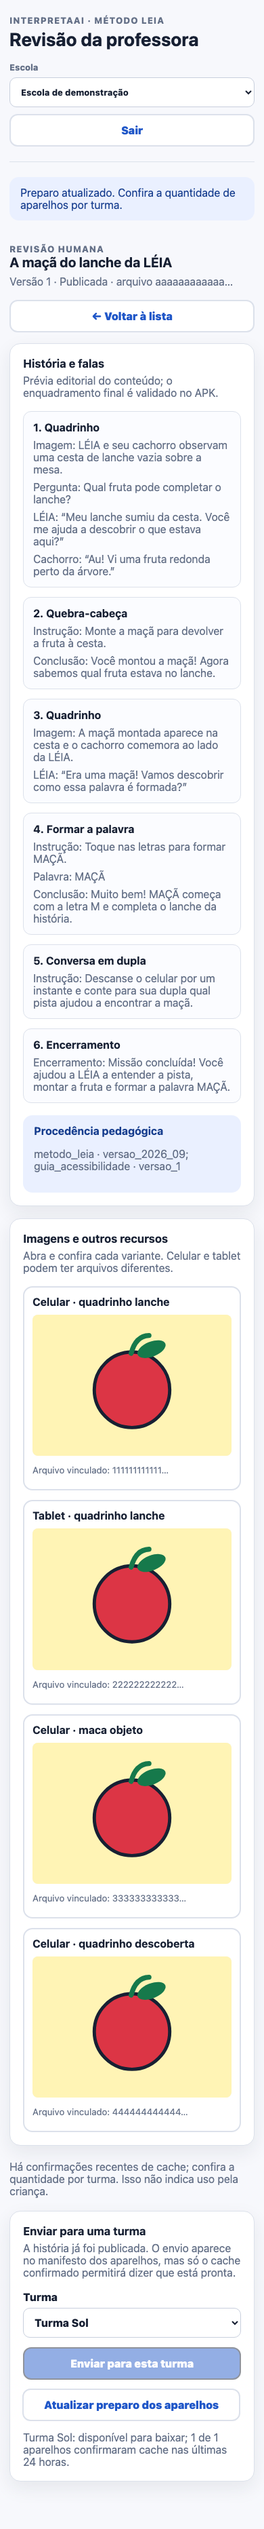
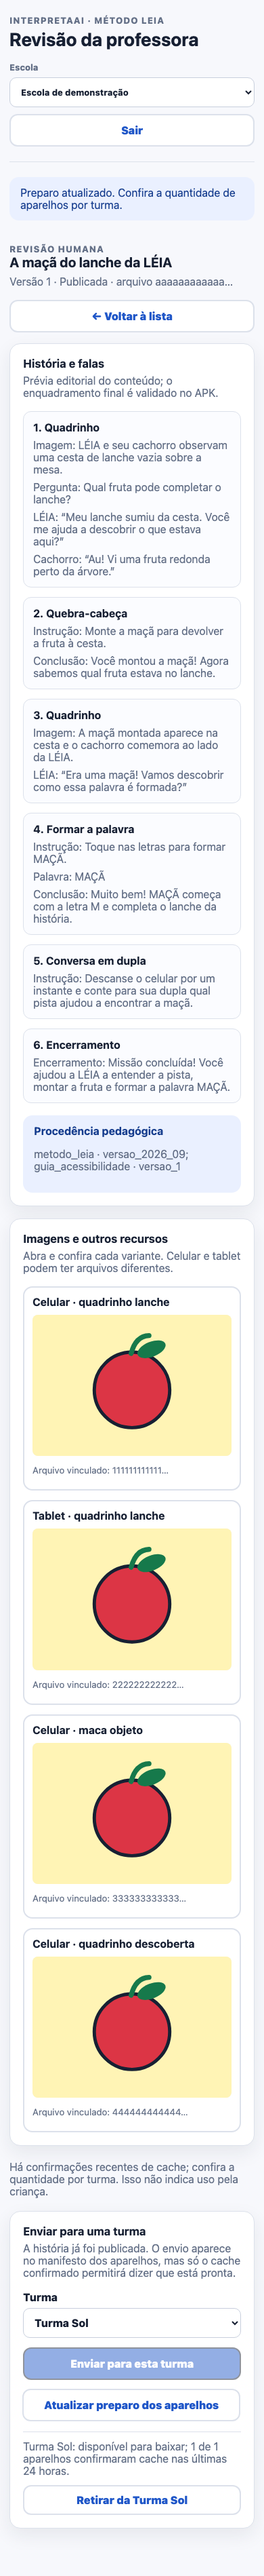
Expose withdrawal in teacher Studio with visual evidence and limits

Changed region(s): [[0.0308, 0.0, 0.9231, 0.9957], [0.5538, 0.0, 0.6462, 0.0311], [0.9231, 0.0311, 0.9538, 0.0622]]

diff --git a/server/src/main/resources/static/studio/review.js b/server/src/main/resources/static/studio/review.js
@@ -28,6 +28,7 @@ async function api(path, options = {}) {
     try { message = (await response.json()).safeMessage || message; } catch (_) { /* no body */ }
     throw new Error(message);
   }
+  if (response.status === 204) return null;
   return response.json();
 }
 
@@ -137,7 +138,24 @@ function renderAssignments() {
         : summary.pairedCompatibleDevices === 0 ? "nenhum aparelho compatível pareado."
         : `${summary.recentlyConfirmedDevices} de ${summary.pairedCompatibleDevices} aparelhos ` +
           `confirmaram cache nas últimas ${summary.freshnessHours} horas.`;
-      list.append(element("p", `${name}: disponível para baixar; ${detail}`));
+      const row = element("div", null, "assignment-row");
+      row.append(element("p", `${name}: disponível para baixar; ${detail}`));
+      const withdraw = element("button", `Retirar da ${name}`, "button quiet withdraw-assignment");
+      withdraw.type = "button";
+      withdraw.addEventListener("click", async () => {
+        if (!window.confirm(`Retirar esta história da ${name}? Após a reconexão, os aparelhos não poderão reabri-la.`)) return;
+        withdraw.disabled = true;
+        try {
+          await post(`/studio/api/schools/${studio.schoolId}/assignments/${assignment.assignmentId}/revoke`);
+          await loadAssignments();
+          feedback(`História retirada da ${name}. Aparelhos offline serão atualizados na próxima conexão.`);
+        } catch (error) {
+          withdraw.disabled = false;
+          feedback(error.message, true);
+        }
+      });
+      row.append(withdraw);
+      list.append(row);
     }
   }
   byId("refresh-preparation").hidden = studio.assignments.length === 0;
@@ -147,6 +165,8 @@ function renderAssignments() {
     byId("review-instruction").textContent = confirmed
       ? "Há confirmações recentes de cache; confira a quantidade por turma. Isso não indica uso pela criança."
       : "Disponível para a turma. Confira abaixo se os aparelhos já confirmaram o preparo.";
+  } else if (studio.review?.state === "PUBLISHED") {
+    byId("review-instruction").textContent = "Publicada. Escolha uma turma; nenhum envio ativo está disponível agora.";
   }
   byId("assign").disabled = !selector.value || studio.assignments.some(
     item => item.target.id === selector.value);

diff --git a/server/src/main/resources/static/studio/review.css b/server/src/main/resources/static/studio/review.css
@@ -31,6 +31,9 @@
 .assignment-controls select { width: 100%; }
 .assignment-list { display: grid; gap: 8px; margin-top: 14px; }
 .assignment-list p { margin: 0; }
+.assignment-row { display: flex; align-items: center; justify-content: space-between; gap: 12px; flex-wrap: wrap; border-top: 1px solid var(--line); padding-top: 12px; }
+.assignment-row p { flex: 1 1 280px; }
+.withdraw-assignment { min-height: 44px; }
 .refresh-preparation { margin-top: 14px; }
 .button:disabled { cursor: not-allowed; opacity: .48; box-shadow: none; transform: none; }
 @media (max-width: 700px) {

diff --git a/tools/audit-studio-review.py b/tools/audit-studio-review.py
@@ -70,6 +70,10 @@ def main():
         elif path.endswith("/preparation"):
             body = {"assignmentId": "assignment_fixture_001", "pairedCompatibleDevices": 1,
                     "recentlyConfirmedDevices": state["confirmed"], "freshnessHours": 24}
+        elif path.endswith("/revoke") and route.request.method == "POST":
+            state["assignments"] = []
+            route.fulfill(status=204, body="")
+            return
         elif path.endswith("/assignments"):
             if route.request.method == "POST":
                 state["assignments"] = [{"assignmentId": "assignment_fixture_001",
@@ -138,6 +142,12 @@ def main():
                 )).to_be_visible()
                 expect(page.get_by_text("Preparo atualizado. Confira a quantidade de aparelhos por turma.")).to_be_visible()
                 page.screenshot(path=OUTPUT / f"{label}-confirmed.png", full_page=True)
+                page.get_by_role("button", name="Retirar da Turma Sol").click()
+                expect(page.get_by_text("Ainda não disponibilizada a nenhuma turma acessível.")).to_be_visible()
+                expect(page.get_by_text(
+                    "História retirada da Turma Sol. Aparelhos offline serão atualizados na próxima conexão."
+                )).to_be_visible()
+                page.screenshot(path=OUTPUT / f"{label}-withdrawn.png", full_page=True)
                 assert not errors, (label, errors)
                 page.close()
             browser.close()

diff --git a/docs/v2/STUDIO_REVIEW.md b/docs/v2/STUDIO_REVIEW.md
@@ -4,7 +4,7 @@ Estado em 17/09/2026: interface e BFF implementados e testados **localmente**. A
 
 ## Jornada implementada
 
-A professora entra via OIDC institucional, escolhe uma escola do seu vínculo ativo, abre um rascunho e confere cenas, diálogos, palavra-alvo, procedência e cada variante privada de imagem/áudio. Só consegue aprovar depois de confirmar todos os arquivos carregados. A aprovação envia revisão, hash do rascunho e hashes das mídias ao servidor; o backend repete autorização e validações. Publicar é uma segunda ação explícita. Depois, a professora escolhe uma turma vinculada e disponibiliza a versão publicada. **Publicar não atribui à turma; atribuir não comprova que os tablets prepararam o cache.** Após a atribuição, o painel consulta separadamente aparelhos compatíveis pareados e recibos de cache verificado nas últimas 24 horas, com atualização manual. Quando não há histórias, a interface mostra estado vazio verdadeiro, não conteúdo de demonstração.
+A professora entra via OIDC institucional, escolhe uma escola do seu vínculo ativo, abre um rascunho e confere cenas, diálogos, palavra-alvo, procedência e cada variante privada de imagem/áudio. Só consegue aprovar depois de confirmar todos os arquivos carregados. A aprovação envia revisão, hash do rascunho e hashes das mídias ao servidor; o backend repete autorização e validações. Publicar é uma segunda ação explícita. Depois, a professora escolhe uma turma vinculada e disponibiliza a versão publicada. **Publicar não atribui à turma; atribuir não comprova que os tablets prepararam o cache.** Após a atribuição, o painel consulta separadamente aparelhos compatíveis pareados e recibos de cache verificado nas últimas 24 horas, com atualização manual. A professora também pode retirar o envio com confirmação explícita; isso não apaga a publicação. Quando não há histórias, a interface mostra estado vazio verdadeiro, não conteúdo de demonstração.
 
 ## Fronteira de segurança
 
@@ -14,10 +14,10 @@ Para ativar em staging, configurar um cliente OIDC Spring `studio` com issuer, c
 
 ## Evidência e limites
 
-- `./gradlew :server:test` cobre segurança habilitada/desabilitada, isolamento por escola/autoria, CSRF, aprovação/publicação, atribuição idempotente e recibo de preparo; hash errado, recibo antigo e aparelho revogado não contam. OIDC é simulado.
+- `./gradlew :server:test` cobre segurança habilitada/desabilitada, isolamento por escola/autoria, CSRF, aprovação/publicação, atribuição idempotente, retirada e recibo de preparo; hash errado, recibo antigo e aparelho revogado não contam. OIDC é simulado.
 - `uv run --with playwright python3 tools/audit-studio-review.py` confere layout e o fluxo revisão → publicação → turma em 390×844, 800×1280 e 1440×1000. As capturas em `output/screenshots/v2-studio-review-fixture/` usam **fixture sintética**, não geração real nem Oracle.
 - Não há edição, pedido de ajuste/rejeição, relatório docente nem geração de pacote pelo Codex nesta interface. A conexão geração → revisão → publicação → atribuição → cache offline ainda está pendente de teste integrado em aparelhos escolares e servidor real.
-- O recibo é afirmação de um aplicativo autenticado após verificar arquivos locais; não prova permanência futura do cache, execução pela criança ou aprendizado. A revogação ainda não remove automaticamente a cópia local por manifesto; não usar o contador como métrica infantil.
+- O recibo é afirmação de um aplicativo autenticado após verificar arquivos locais; não prova permanência futura do cache, execução pela criança ou aprendizado. A retirada remove o vínculo local na próxima sincronização online via `404` da reconfirmação, não por push; aparelhos offline e cenas já abertas em memória podem continuar temporariamente. O contador não é métrica infantil.
 - Não houve teste com professoras ou crianças. A auditoria visual técnica não prova usabilidade humana.
 - Um smoke em PostgreSQL 17.11 local e descartável aplicou as 20 migrações até V20, confirmou a tabela de recibos e iniciou o JAR. Isso não substitui teste de consulta com dados em PostgreSQL nem valida sessão OIDC e PostgreSQL da Oracle.
 
@@ -27,4 +27,4 @@ Para ativar em staging, configurar um cliente OIDC Spring `studio` com issuer, c
 |---|---|---|
 | ![Revisão no celular com conteúdo sintético](../../output/screenshots/v2-studio-review-fixture/mobile-review.png) | ![Revisão no tablet com conteúdo sintético](../../output/screenshots/v2-studio-review-fixture/tablet-review.png) | ![Revisão no desktop com conteúdo sintético](../../output/screenshots/v2-studio-review-fixture/desktop-review.png) |
 
-Após a atribuição: [celular](../../output/screenshots/v2-studio-review-fixture/mobile-assigned.png), [tablet](../../output/screenshots/v2-studio-review-fixture/tablet-assigned.png), [desktop](../../output/screenshots/v2-studio-review-fixture/desktop-assigned.png). Com confirmação simulada: [celular](../../output/screenshots/v2-studio-review-fixture/mobile-confirmed.png), [tablet](../../output/screenshots/v2-studio-review-fixture/tablet-confirmed.png), [desktop](../../output/screenshots/v2-studio-review-fixture/desktop-confirmed.png). Todas são capturas sintéticas.
+Após a atribuição: [celular](../../output/screenshots/v2-studio-review-fixture/mobile-assigned.png), [tablet](../../output/screenshots/v2-studio-review-fixture/tablet-assigned.png), [desktop](../../output/screenshots/v2-studio-review-fixture/desktop-assigned.png). Com confirmação simulada: [celular](../../output/screenshots/v2-studio-review-fixture/mobile-confirmed.png), [tablet](../../output/screenshots/v2-studio-review-fixture/tablet-confirmed.png), [desktop](../../output/screenshots/v2-studio-review-fixture/desktop-confirmed.png). Após retirada simulada: [celular](../../output/screenshots/v2-studio-review-fixture/mobile-withdrawn.png), [tablet](../../output/screenshots/v2-studio-review-fixture/tablet-withdrawn.png), [desktop](../../output/screenshots/v2-studio-review-fixture/desktop-withdrawn.png). Todas são capturas sintéticas.

diff --git a/docs/v2/SPRINT_1_TRACKER.md b/docs/v2/SPRINT_1_TRACKER.md
@@ -18,7 +18,7 @@ Nginx em container e Spring na origem `172.18.0.1:8088`; a rota v2 não está in
 | Pareamento e credencial revogável do aparelho | IMPLEMENTADO LOCALMENTE | código HMAC efêmero/uso único, token HMAC, cadeia HTTP por deviceId e revogação imediata testados | integrar Android Keystore e rate limit distribuído no proxy |
 | Fila persistente de autoria | IMPLEMENTADO LOCALMENTE | job, payload, fila, lease, retry, idempotência e auditoria atômicos; worker isolado valida a carga e retoma após expiração testada | conectar etapas RAG/Codex e validar concorrência no PostgreSQL |
 | Validação, revisão, aprovação e publicação | BACKEND E ESTÚDIO LOCAL; E2E PENDENTE | `validateDraft` rejeita aprovação antecipada; revisão adulta e mídias privadas exigem escola/autoria; aprovação confirma hash/revisão e cada mídia. O [Estúdio](STUDIO_REVIEW.md) mostra prévias reais por sessão autenticada e separa aprovação de publicação; testes usam OIDC simulado e fixture visual | testar OIDC/HTTPS/PostgreSQL reais, geração → entrega → cache e uso docente antes de publicar na Oracle |
-| Atribuição e confirmação de preparo | BACKEND, ANDROID E UI LOCAIS; E2E REAL PENDENTE | Estúdio lista só turmas vinculadas, atribui com idempotência e distingue aparelhos pareados de recibos recentes. Android confere pacote/arquivos, envia hash e só avança cursor após confirmação; testes cobrem falha/retry, hash divergente, recibo expirado e revogação de aparelho. Recibo não é evidência de uso infantil | testar publicação → manifesto → cache offline → recibo em aparelho real/Oracle; adicionar tombstone de revogação ao cache local |
+| Atribuição, confirmação e retirada | BACKEND, ANDROID E UI LOCAIS; E2E REAL PENDENTE | Estúdio lista turmas vinculadas, atribui, distingue aparelhos pareados de recibos e permite retirada confirmada. Android verifica pacote/arquivos e, após `404` na reconfirmação online, remove o vínculo revogado; testes cobrem retry, hash divergente, recibo antigo, autorização e retirada. Recibo não é evidência de uso infantil | testar publicação → manifesto → cache offline → recibo → retirada em aparelho real/Oracle; avaliar limite de aparelho offline e cena aberta |
 | Auditoria adulta | PARCIAL | criação, recebimento, sanitização/rejeição, transições de versão e atribuição à turma geram evento append-only sem conteúdo | cobrir relatório e mudança de papel |
 | Oracle dev/staging, HTTPS e PostgreSQL | V1 ATIVO; V2 AUSENTE NA ORIGEM | health 200/UP e gateway v1 200/HOT/Ollama; SSH de leitura confirma serviços Spring/Kokoro/WireGuard ativos e Nginx em container; `/api/v2/identity/me` retorna 404 também em `172.18.0.1:8088`. Banco, OIDC e artefato executado ainda não verificados. PostgreSQL 17.11 **local e descartável** aplicou V1–V20 e iniciou o JAR, mas não testou a Oracle | preparar staging/rollback, validar OIDC e PostgreSQL reais e só depois abrir rota no Nginx |
 | Backup e restauração | PENDENTE EXTERNO | política desenhada | restaurar banco e objeto em staging |

diff --git a/docs/v2/API_CONTRACTS.md b/docs/v2/API_CONTRACTS.md
@@ -33,6 +33,13 @@ e recebe `POST` nessa última rota com `classroomId` e `availableFrom`. O servid
 para distribuir conteúdo. A resposta indica atribuição registrada, **não cache preparado**.
 Esse BFF está desligado por padrão e não altera a autenticação do APK infantil nem do tablet.
 
+A professora pode retirar uma atribuição ativa em
+`POST /studio/api/schools/{schoolId}/assignments/{assignmentId}/revoke`, com sessão, CSRF,
+`Idempotency-Key` e confirmação explícita na interface. A API adulta correspondente é
+`POST /api/v2/assignments/{assignmentId}/revoke` com JWT e `X-School-Id`. O servidor revalida
+o vínculo com a turma, marca a atribuição como `REVOKED` e audita somente a primeira transição.
+Repetições são idempotentes; não há reativação implícita.
+
 ## Pareamento do tablet
 
 Uma professora vinculada à turma solicita `POST /device-management/pairing-codes`. O servidor
@@ -220,9 +227,12 @@ devolvem `pairedCompatibleDevices`, `recentlyConfirmedDevices`, `lastConfirmatio
 e `freshnessHours` (24). O painel separa aparelhos pareados de confirmações recentes; sem contato
 recente, mostra falta de confirmação, não abandono infantil. O recibo é declaração autenticada do
 aplicativo após checagem local, **não prova criptográfica de que o arquivo permaneça no aparelho**,
-nem comprova que a criança executou a atividade. Revogação de atribuição ainda não tem tombstone
-no manifesto Android: o servidor deixa de confirmar/contar, mas a cópia local pode persistir até a
-política de limpeza/cache; isso exige fechamento antes do piloto escolar.
+nem comprova que a criança executou a atividade. Após a retirada, o servidor deixa de entregar
+pacote e aceitar recibos. Na próxima sincronização online, o `404` da reconfirmação remove o
+vínculo local e encerra sua sessão persistida; a Home não oferece mais a história. Os bytes
+imutáveis podem permanecer no cache físico porque outra atribuição pode compartilhá-los. Não há
+push nem garantia de revogação enquanto o aparelho estiver offline; uma cena já aberta em memória
+também não é interrompida instantaneamente. Esses limites exigem teste de campo antes do piloto.
 
 ### Sessão e eventos
 
